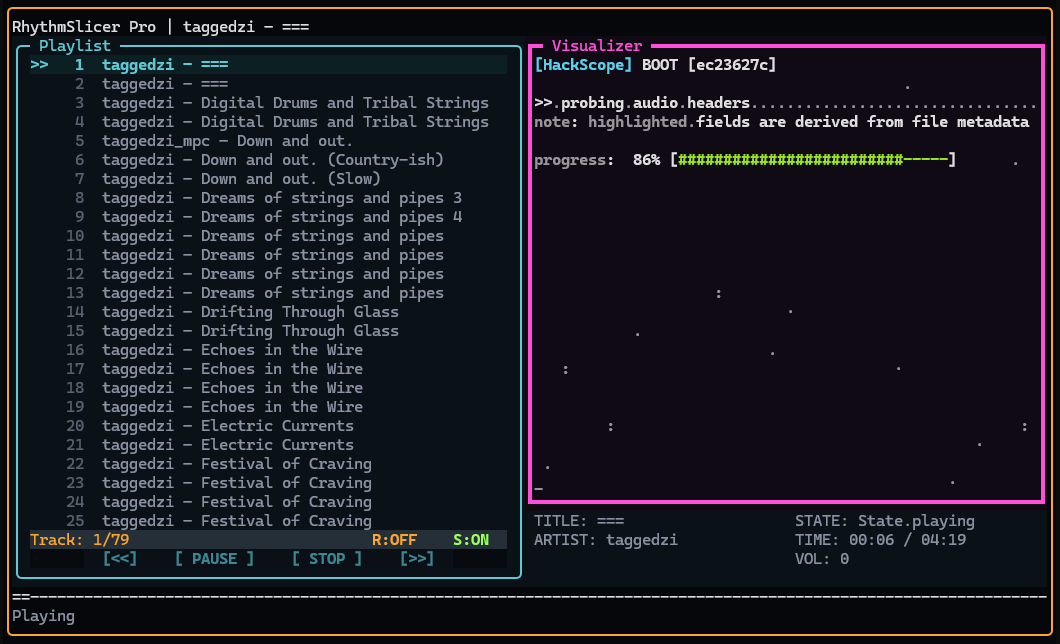
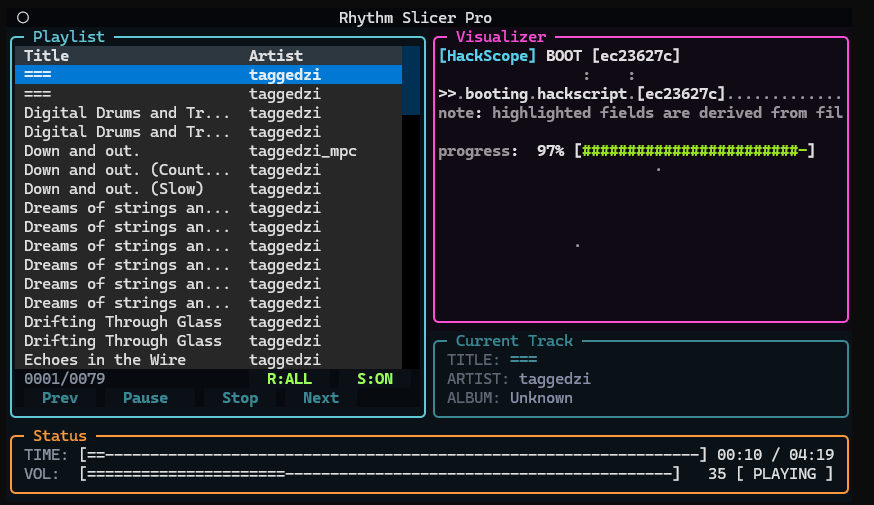
Updated Readme and screen shots.

diff --git a/README.md b/README.md
@@ -1,11 +1,25 @@
 # RhythmSlicer Pro
 
-[![CI](https://github.com/OWNER/REPO/actions/workflows/ci.yml/badge.svg)](https://github.com/OWNER/REPO/actions/workflows/ci.yml)
+![Python](https://img.shields.io/badge/Python-3.9%20–%203.12-blue?logo=python&logoColor=white)
+![License](https://img.shields.io/github/license/taggedzi/rhythmslicer)
+![CI](https://img.shields.io/github/actions/workflow/status/taggedzi/rhythmslicer/ci.yml?branch=main)
+
+![Interface](https://img.shields.io/badge/interface-Terminal%20UI-black)
+![Built with Textual](https://img.shields.io/badge/built%20with-Textual-purple)
+![Keyboard First](https://img.shields.io/badge/interaction-keyboard--first-success)
+
+![Status](https://img.shields.io/badge/status-active%20development-yellow)
+![Domain](https://img.shields.io/badge/domain-audio%20%26%20music-blue)
+![Playlist](https://img.shields.io/badge/feature-playlist%20builder-informational)
+
+
 
 RhythmSlicer Pro is a cross-platform CLI + Textual TUI music player with
 playlist management and built-in ASCII visualizers powered by the VLC backend.
 
 ![RhythmSlicer TUI](docs/screenshots/ui.png)
+
+![RhythmSlicer TUI Playlist Builder](docs/screenshots/playlist_builder.png)
 
 ## Requirements
 
@@ -39,22 +53,23 @@ pip install -e .
 
 ```bash
 r-slicer
-r-slicer path/to/file.mp3
 ```
 
 ## Development
 
 ```bash
 pip install nox
+nox -s lint-fix
 nox -s lint
 nox -s tests
 nox -s build
+nox -s coverage
 ```
 
 ## CLI options
 
-```
-r-slicer [path] [--viz <name>]
+```bash
+r-slicer
 ```
 
 ## Usage
